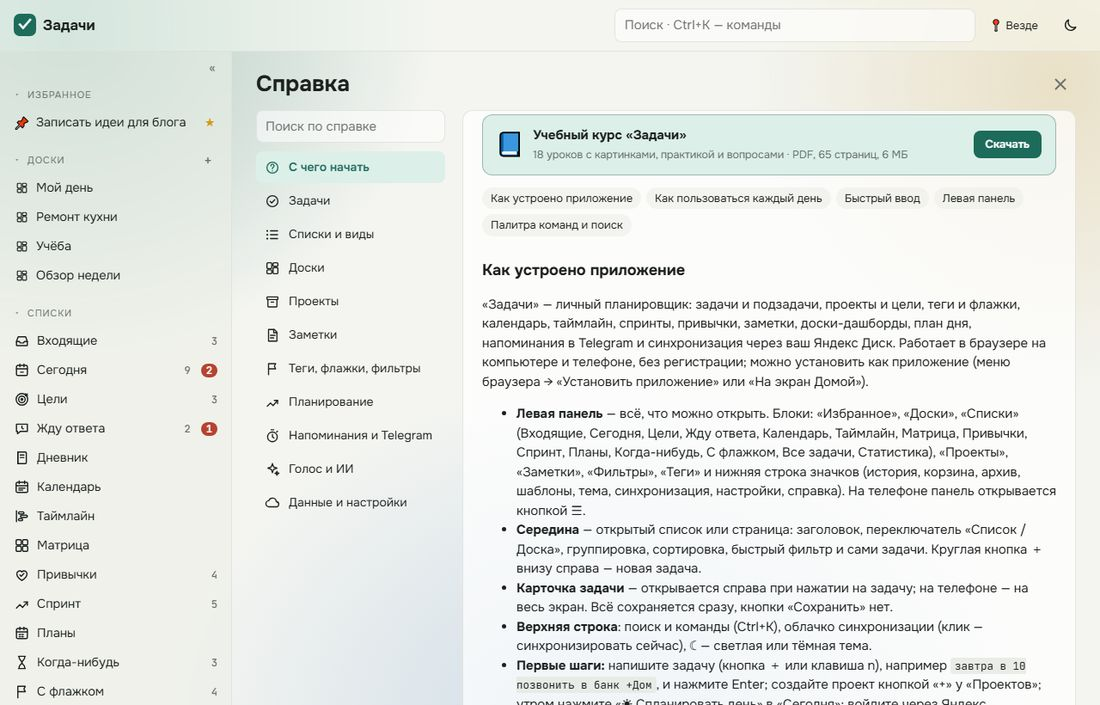
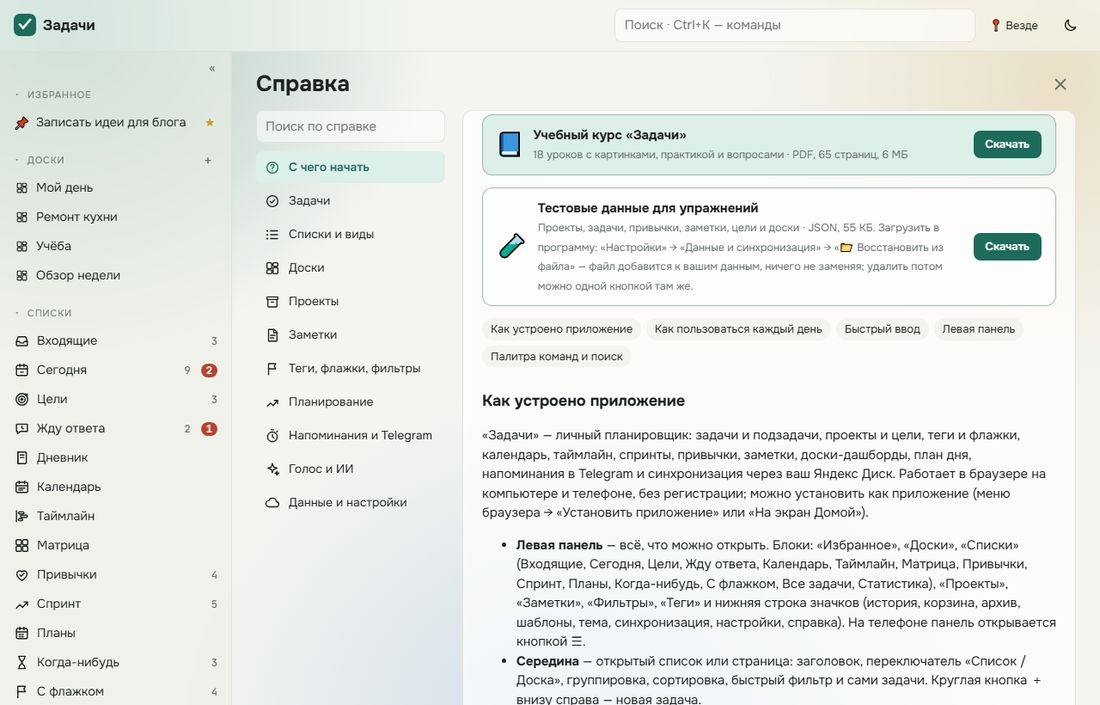
Задачи: ссылка на файл тестовых данных в «Справке»

Changed region(s): [[0.4327, 0.2496, 0.9582, 1.0]]

diff --git a/zadachi/index.html b/zadachi/index.html
@@ -912,7 +912,7 @@ body.mini .side .lab .lq { display: none }
 .tbar .lbox { width: 15px; height: 15px; border: 2px solid var(--muted); border-radius: 4px; display: grid; place-items: center; box-sizing: border-box } .tbar .lt.on .lbox { background: var(--acc); border-color: var(--acc) } .tbar .lt.on .lbox::after { content: ""; width: 6px; height: 3px; border: 2px solid #fff; border-top: 0; border-right: 0; transform: rotate(-45deg) translate(1px, -1px) }
 .htoc { display: flex; flex-wrap: wrap; gap: 6px; margin: 14px 0 4px } .htoc a { font-size: calc(13px * var(--fs)); padding: 3px 10px; border-radius: 14px; background: var(--side); color: var(--fg); text-decoration: none } .htoc a:hover { background: var(--acc-soft); color: var(--acc) }
 .hcourse { display: flex; align-items: center; gap: 12px; padding: 12px 16px; margin: 0 0 14px; border: 1px solid color-mix(in srgb, var(--acc) 35%, var(--line)); border-radius: 12px; background: var(--acc-soft); color: var(--fg); text-decoration: none; max-width: 760px }
-.hcourse:hover { border-color: var(--acc) } .hcourse .hci { font-size: calc(26px * var(--fs)) } .hcourse b { display: block } .hcourse small { color: var(--muted); font-size: calc(12.5px * var(--fs)) } .hcourse .hcd { margin-left: auto; flex: none; background: var(--acc); color: #fff; border-radius: 8px; padding: 6px 14px; font-weight: 600; font-size: calc(13px * var(--fs)) }
+.hcourse:hover { border-color: var(--acc) } .hcourse.htest { background: var(--panel) } .hcourse .hci { font-size: calc(26px * var(--fs)) } .hcourse b { display: block } .hcourse small { color: var(--muted); font-size: calc(12.5px * var(--fs)) } .hcourse .hcd { margin-left: auto; flex: none; background: var(--acc); color: #fff; border-radius: 8px; padding: 6px 14px; font-weight: 600; font-size: calc(13px * var(--fs)) }
 .htip { background: var(--acc-soft); border-radius: 8px; padding: 8px 12px; font-size: calc(14px * var(--fs)) }
 /* пункты «Списков» — переключатели */
 .lchk .lt { display: flex; align-items: center; gap: 8px; background: none; border: 0; padding: 5px 4px; border-radius: 6px; font: inherit; font-size: calc(14px * var(--fs)); color: var(--fg); cursor: pointer; text-align: left }
@@ -2086,7 +2086,7 @@ CREATE TABLE inbox (
   };
   // данные: сжатый JSON по 900 знаков в свойствах служебных папок app:/tasks/state/c000…
   var CHUNK = 900, ROOT = "app:/tasks/state", ROOT3 = "app:/tasks/s3", LEGACY_UNTIL = new Date("2026-12-31T00:00:00").getTime();
-  var APPV = "zd-app-2026-10-16-53";
+  var APPV = "zd-app-2026-10-16-54";
   function hash32(s) { var h = 0x811c9dc5; for (var i = 0; i < s.length; i++) { h ^= s.charCodeAt(i); h = Math.imul(h, 16777619); } return (h >>> 0).toString(36) + "." + s.length.toString(36); }
   // каноническая запись (ключи по алфавиту) — чтобы одинаковые данные на разных устройствах давали одинаковый отпечаток
   function canon(o) { if (Array.isArray(o)) return "[" + o.map(canon).join(",") + "]"; if (o && typeof o === "object") return "{" + Object.keys(o).sort().map(function (k) { return JSON.stringify(k) + ":" + canon(o[k]); }).join(",") + "}"; return JSON.stringify(o === undefined ? null : o); }
@@ -4913,7 +4913,8 @@ CREATE TABLE inbox (
     }
     return auxHead("Справка") + '<div class="stabs"><nav class="stnav" aria-label="Разделы справки"><input type="search" id="helpq" class="inp hsrch" placeholder="Поиск по справке" value="' + esc(HQ) + '" autocomplete="off">' +
       HTABS.map(function (x) { return '<a href="#help-' + x[0] + '" class="' + (!q && cur === x[0] ? "on" : "") + '">' + ic(x[1]) + "<span>" + x[2] + "</span></a>"; }).join("") +
-      '</nav><div class="stbody help"><a class="hcourse" href="kurs-zadachi.pdf" target="_blank" rel="noopener" download="Учебный курс — Задачи.pdf"><span class="hci">📘</span><span><b>Учебный курс «Задачи»</b><small>18 уроков с картинками, практикой и вопросами · PDF, 65 страниц, 6 МБ</small></span><span class="hcd">Скачать</span></a>' + html + '<p class="foot">© ' + new Date().getFullYear() + " ytv · Задачи</p></div></div>";
+      '</nav><div class="stbody help"><a class="hcourse" href="kurs-zadachi.pdf" target="_blank" rel="noopener" download="Учебный курс — Задачи.pdf"><span class="hci">📘</span><span><b>Учебный курс «Задачи»</b><small>18 уроков с картинками, практикой и вопросами · PDF, 65 страниц, 6 МБ</small></span><span class="hcd">Скачать</span></a>' +
+      '<a class="hcourse htest" href="testdata.json" download="Тестовые данные для Задач.json"><span class="hci">🧪</span><span><b>Тестовые данные для упражнений</b><small>Проекты, задачи, привычки, заметки, цели и доски · JSON, 55 КБ. Загрузить в программу: «Настройки» → «Данные и синхронизация» → «📂 Восстановить из файла» — файл добавится к вашим данным, ничего не заменяя; удалить потом можно одной кнопкой там же.</small></span><span class="hcd">Скачать</span></a>' + html + '<p class="foot">© ' + new Date().getFullYear() + " ytv · Задачи</p></div></div>";
   }
   function codeBox(id, title) { var el = $(id); return '<div class="codebox"><div class="h"><b>' + title + '</b><button class="btn sm" type="button" data-copy="' + id + '">Скопировать</button></div><pre>' + esc(el ? el.textContent.trim() : "") + "</pre></div>"; }
   function vHelp() {

diff --git a/zadachi/sw.js b/zadachi/sw.js
@@ -1,5 +1,5 @@
 // Офлайн-кэш приложения «Задачи»
-const CACHE = 'zd-app-2026-10-16-53';
+const CACHE = 'zd-app-2026-10-16-54';
 const CORE = ['./', 'index.html', 'manifest.webmanifest', 'icon-192.png', 'icon-512.png', 'apple-touch-icon.png'];
 self.addEventListener('install', e => { e.waitUntil(caches.open(CACHE).then(c => c.addAll(CORE)).then(() => self.skipWaiting())); });
 self.addEventListener('activate', e => {
